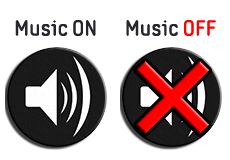
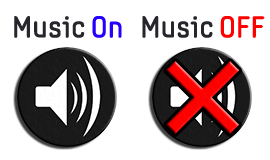
resized the music button text.
also i swapped out the old one with the new one.

diff --git a/src/Preload.js b/src/Preload.js
@@ -35,7 +35,7 @@ BasicGame.Preloader.prototype = {
         this.load.image("resetgame", "asset/menu/resetgame.png");
         this.load.image("thankyou", "asset/menu/thankyou.png");
         this.load.image("playBtn", "asset/menu/playbutton.png");
-        this.load.spritesheet('musicToggle', 'asset/music_status.png',115,160,2);
+        this.load.spritesheet('musicToggle', 'asset/music_status.png',135,160,2);
         
 
     },
